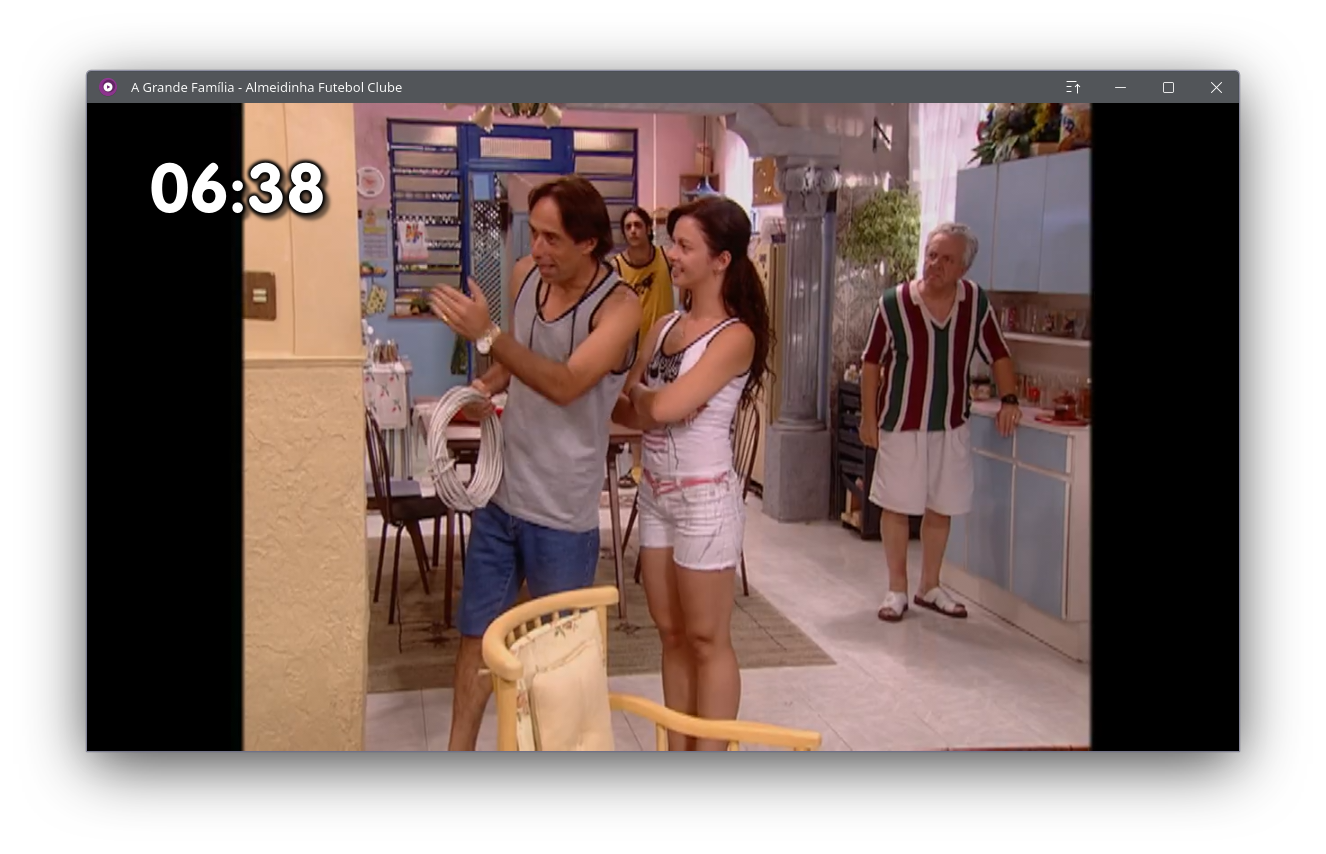
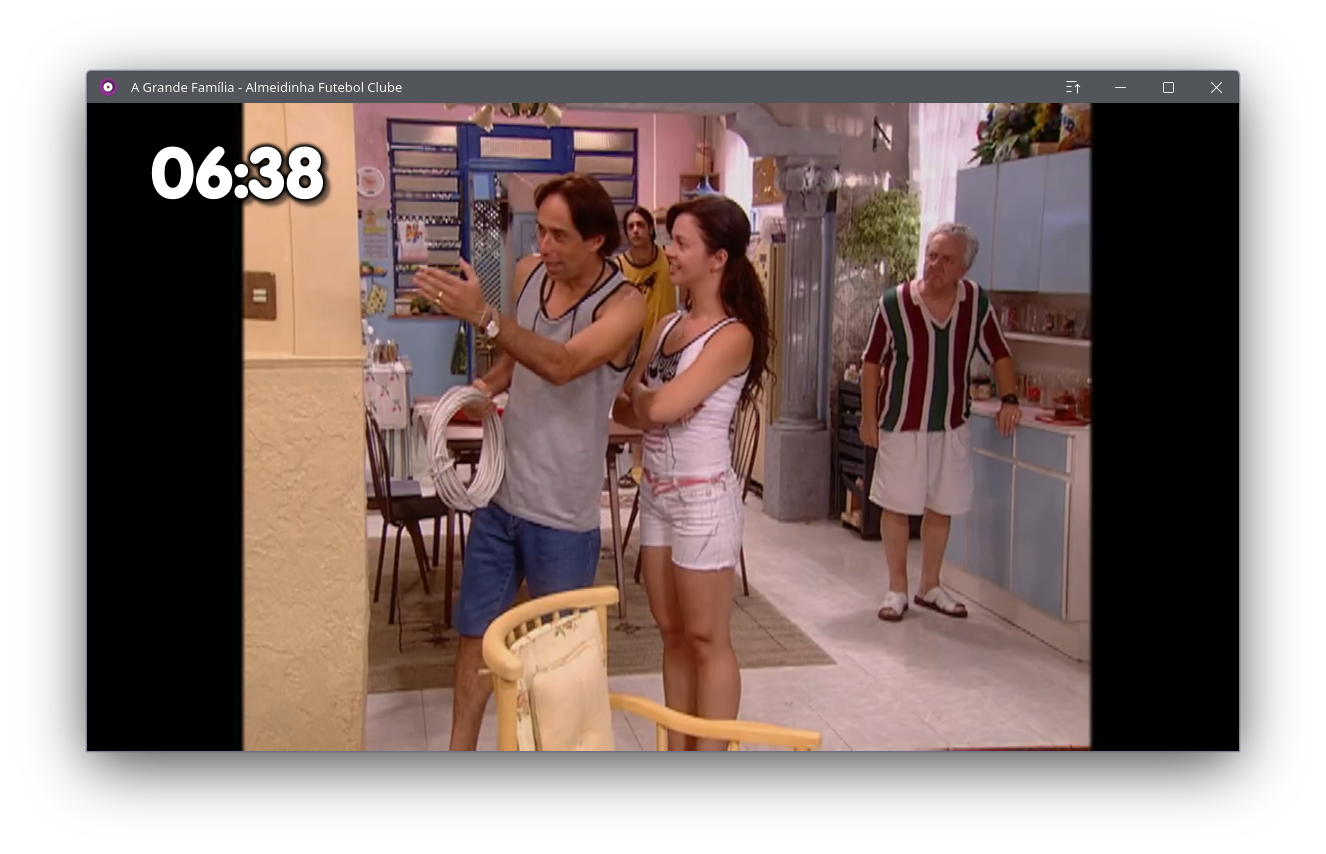
Update README.md

diff --git a/README.md b/README.md
@@ -27,7 +27,7 @@ You can customize any aspect of the clock. To do this, create a `osc-clock.conf`
 Here is an example of a configuration file, which would be placed in `script-opts/osc-clock.conf`:
 
 ```ini
-font=VAG Rounded Std
+font=Globoface 2002
 fontsize=95
 fontcolor=FFFFFF
 bordersize=3
@@ -35,6 +35,7 @@ bordercolor=000000
 shadowdist=5
 shadowcolor=000000
 blur=0
+positiony=30
 ```
 
 ![Screenshot1](/docs/screenshot2.png)
